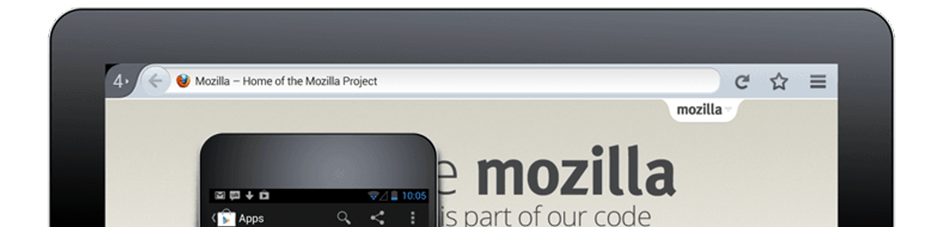
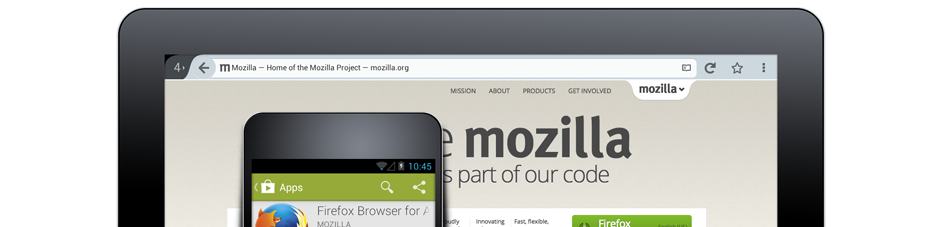
Add in a better image for android provided by Steven (it's a little narrower than the other images, but looks good). Also fix a conflicting id problem with the android download button, and a off-center layout issue with the screenshots.

diff --git a/media/css/firefox/new.less b/media/css/firefox/new.less
@@ -142,6 +142,9 @@ html.android {
         &.android {
             display: block;
             margin-top: 22px;
+            .download-link {
+                margin-left: 54px;
+            }
         }
     }
 }
@@ -354,9 +357,12 @@ html[lang="my"] #features {
     visibility: hidden;
 }
 
-#firefox-screenshot .platform-img {
-    position: absolute;
-    bottom: 0px;
+#firefox-screenshot {
+    padding: 0 20px;
+    .platform-img {
+        position: absolute;
+        bottom: 0px;
+    }
 }
 
 noscript {

diff --git a/bedrock/firefox/templates/firefox/new.html b/bedrock/firefox/templates/firefox/new.html
@@ -58,7 +58,7 @@
             {{ download_firefox(mobile=True) }}
           </div>
           <div class="android download-button-wrapper">
-            {{ download_firefox(mobile=True, small=True, icon=False) }}
+            {{ download_firefox(mobile=True, small=True, icon=False, dom_id='download-button-android') }}
           </div>
           <div class="desktop-latest-links-wrapper latest-links-wrapper">
             <ul>
